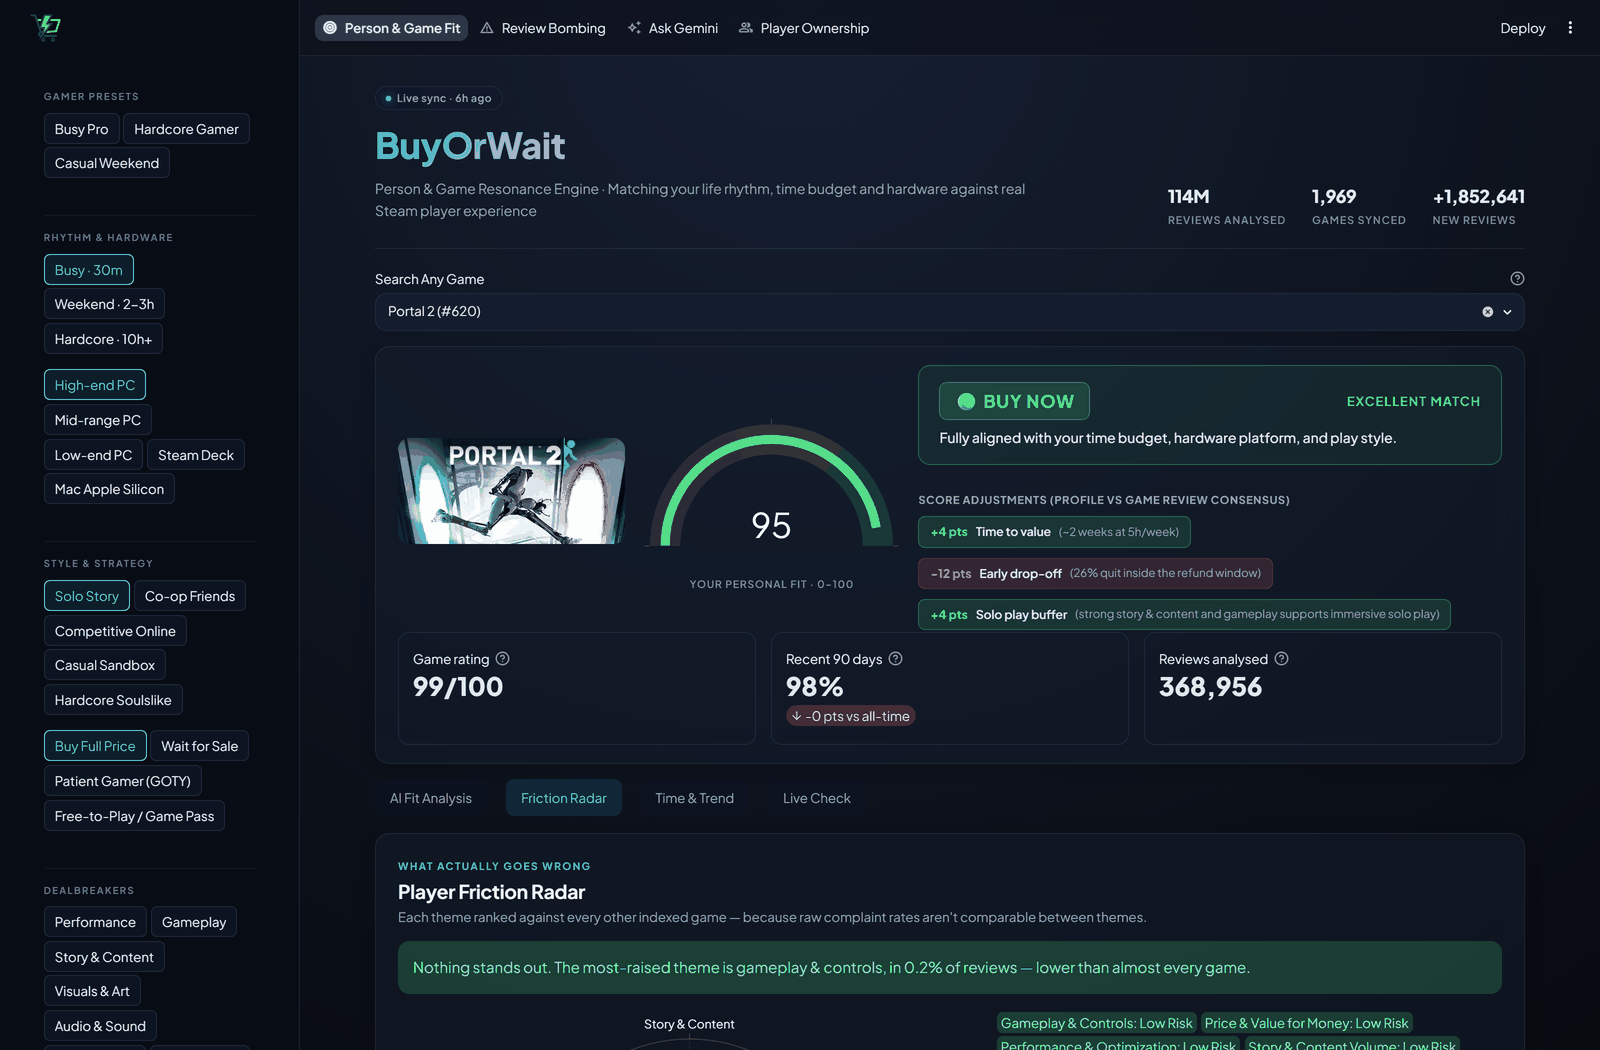
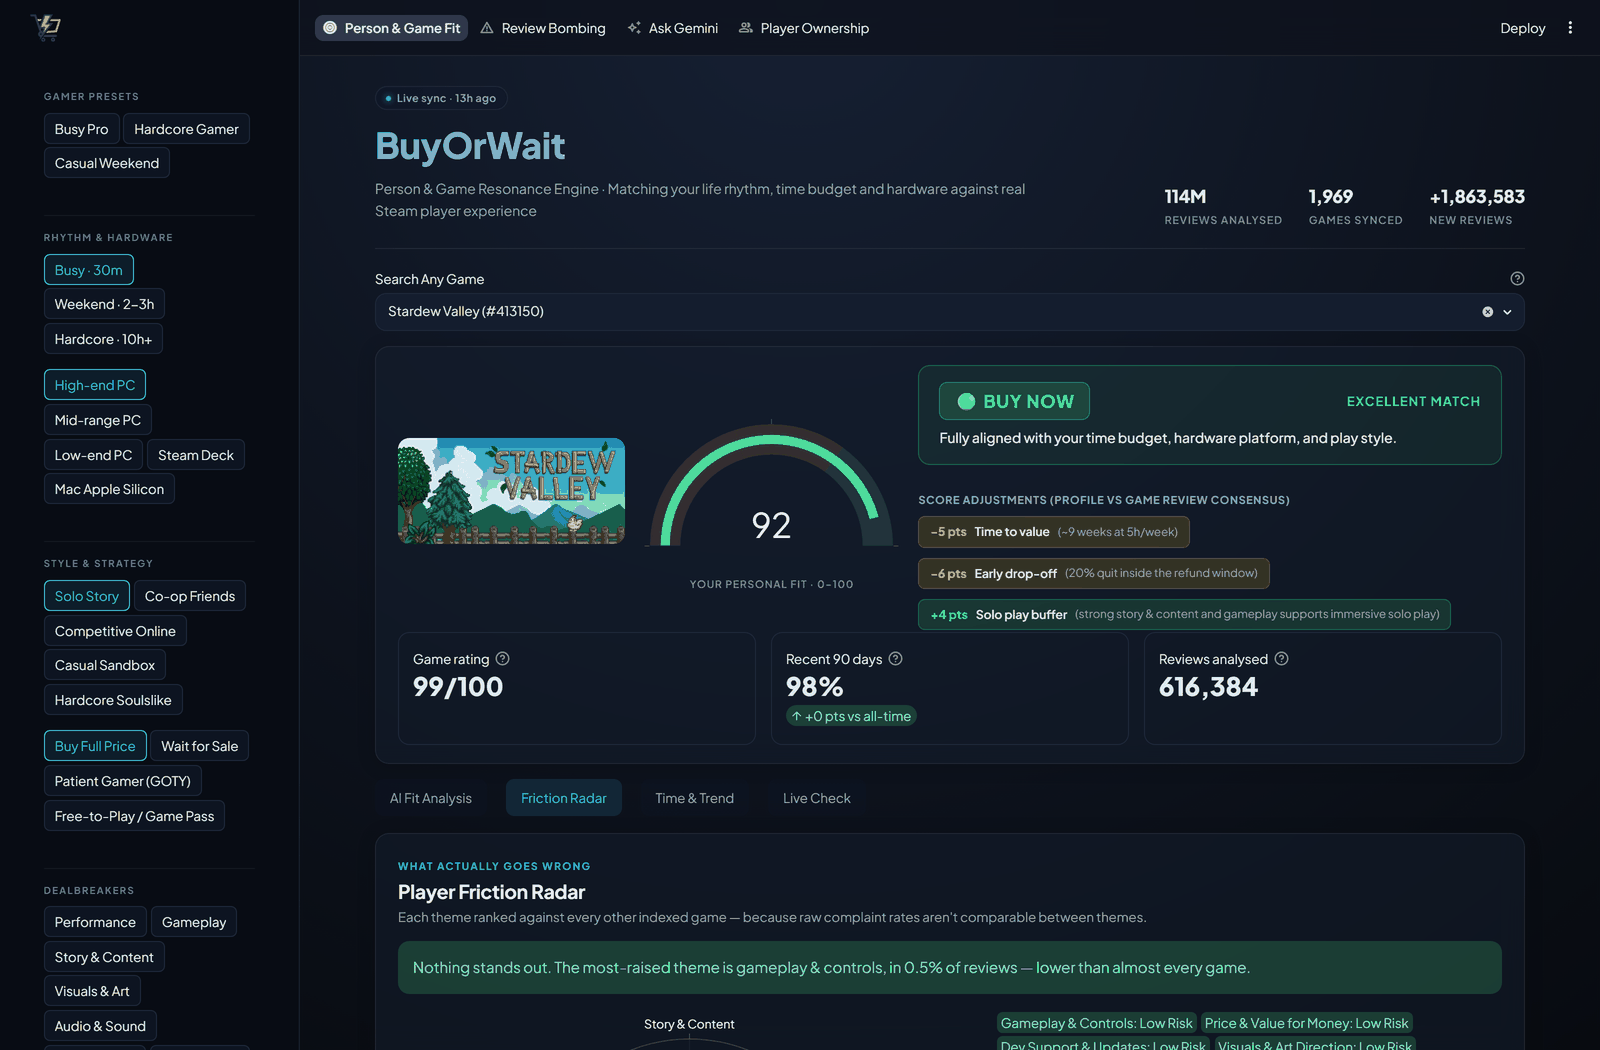
fix(radar): reserve an inner radius so a clean game is still a shape
A well-rated game sits near the 0th percentile on most axes, and mapping percentile
straight onto the polar radius collapsed those points onto the origin. The polygon
degenerated into a dot with one spike — unreadable, and it hid which axis was the
least clean, which is the one thing a buyer looking at a good game still wants.

The radius is now R_INNER + (100 - R_INNER) * pctl/100 with R_INNER = 16, applied
identically to the data and to all three reference rings. That matters: because the
rings move with the data, every relationship on the chart is preserved — inside the
typical-game ring still means fewer complaints than most, and the Moderate/High rings
still sit exactly where the chips switch level. It rescales the canvas, it does not
flatter the numbers, and hover still reports the true percentile and share.

Measured plotted spread afterwards: Portal 16.0-85.7, BioShock Remastered 28.6-100.0,
Overwatch 2 16.0-100.0 — real structure in all three rather than a point at the
centre.

Also nudged the three fill tints up slightly, since the smaller shapes carry less area
to read the colour from.

The UI/backend cross-check was taught the transform rather than relaxed, so it still
catches a chart drawing the wrong series — it reports NONE with the inverse applied.
Its fixed post-click delay is also replaced with a wait on the trace actually
existing; the hard-coded wait had produced two spurious "failed to read the chart"
results whenever a SQL change left the query cold.
[…]

diff --git a/app/app.py b/app/app.py
@@ -1269,8 +1269,21 @@ _DIM_SHORT = {
 
 # The fill tint follows the worst theme, so the shape's colour answers "is anything
 # actually wrong here" before you read a single label.
-_FILL = {"High Risk": "rgba(248,113,113,0.20)", "Moderate Risk": "rgba(250,204,21,0.16)",
-         "Low Risk": "rgba(74,222,128,0.13)"}
+_FILL = {"High Risk": "rgba(248,113,113,0.22)", "Moderate Risk": "rgba(250,204,21,0.18)",
+         "Low Risk": "rgba(74,222,128,0.15)"}
+
+# Radius reserved at the centre. A clean game sits near the 0th percentile on every
+# axis, and mapping that straight onto the polar radius collapses the polygon into a
+# dot — unreadable, and it hides which axis is the least clean. The offset is applied
+# identically to the data AND to all three reference rings, so every relationship on
+# the chart is preserved: it rescales the canvas, it does not flatter the numbers.
+# Hover still reports the true percentile and share.
+R_INNER = 16.0
+
+
+def _r(pctl: float) -> float:
+    """Percentile -> plotted radius."""
+    return R_INNER + (100.0 - R_INNER) * max(0.0, min(100.0, float(pctl))) / 100.0
 
 
 def radar_figure(radar: dict, my_dims: list):
@@ -1297,7 +1310,7 @@ def radar_figure(radar: dict, my_dims: list):
                 key=lambda lv: {"High Risk": 0, "Moderate Risk": 1, "Low Risk": 2}[lv])
 
     fig = go.Figure()
-    ring = lambda r: [r] * (len(dims) + 1)          # noqa: E731 - local shorthand
+    ring = lambda r: [_r(r)] * (len(dims) + 1)      # noqa: E731 - local shorthand
     # The two grading thresholds, so the shape can be read against the levels the chips
     # report rather than by area alone.
     for lvl, col, nm in ((MODERATE_PCTL, "#facc15", "Moderate at 70%"),
@@ -1309,8 +1322,9 @@ def radar_figure(radar: dict, my_dims: list):
         r=ring(50), theta=theta + theta[:1], mode="lines", name="typical game",
         line=dict(color="rgba(255,255,255,0.45)", width=1.5, dash="solid"), hoverinfo="skip"))
     ring_colors = [_RISK_COLOR[radar[d]["level"]] for d in dims]
+    plotted = [_r(v) for v in vals]
     fig.add_trace(go.Scatterpolar(
-        r=vals + vals[:1], theta=theta + theta[:1], mode="lines+markers", fill="toself",
+        r=plotted + plotted[:1], theta=theta + theta[:1], mode="lines+markers", fill="toself",
         name="this game",
         fillcolor=_FILL[worst], line=dict(color=_RISK_COLOR[worst], width=3),
         marker=dict(size=10, color=ring_colors + ring_colors[:1],
